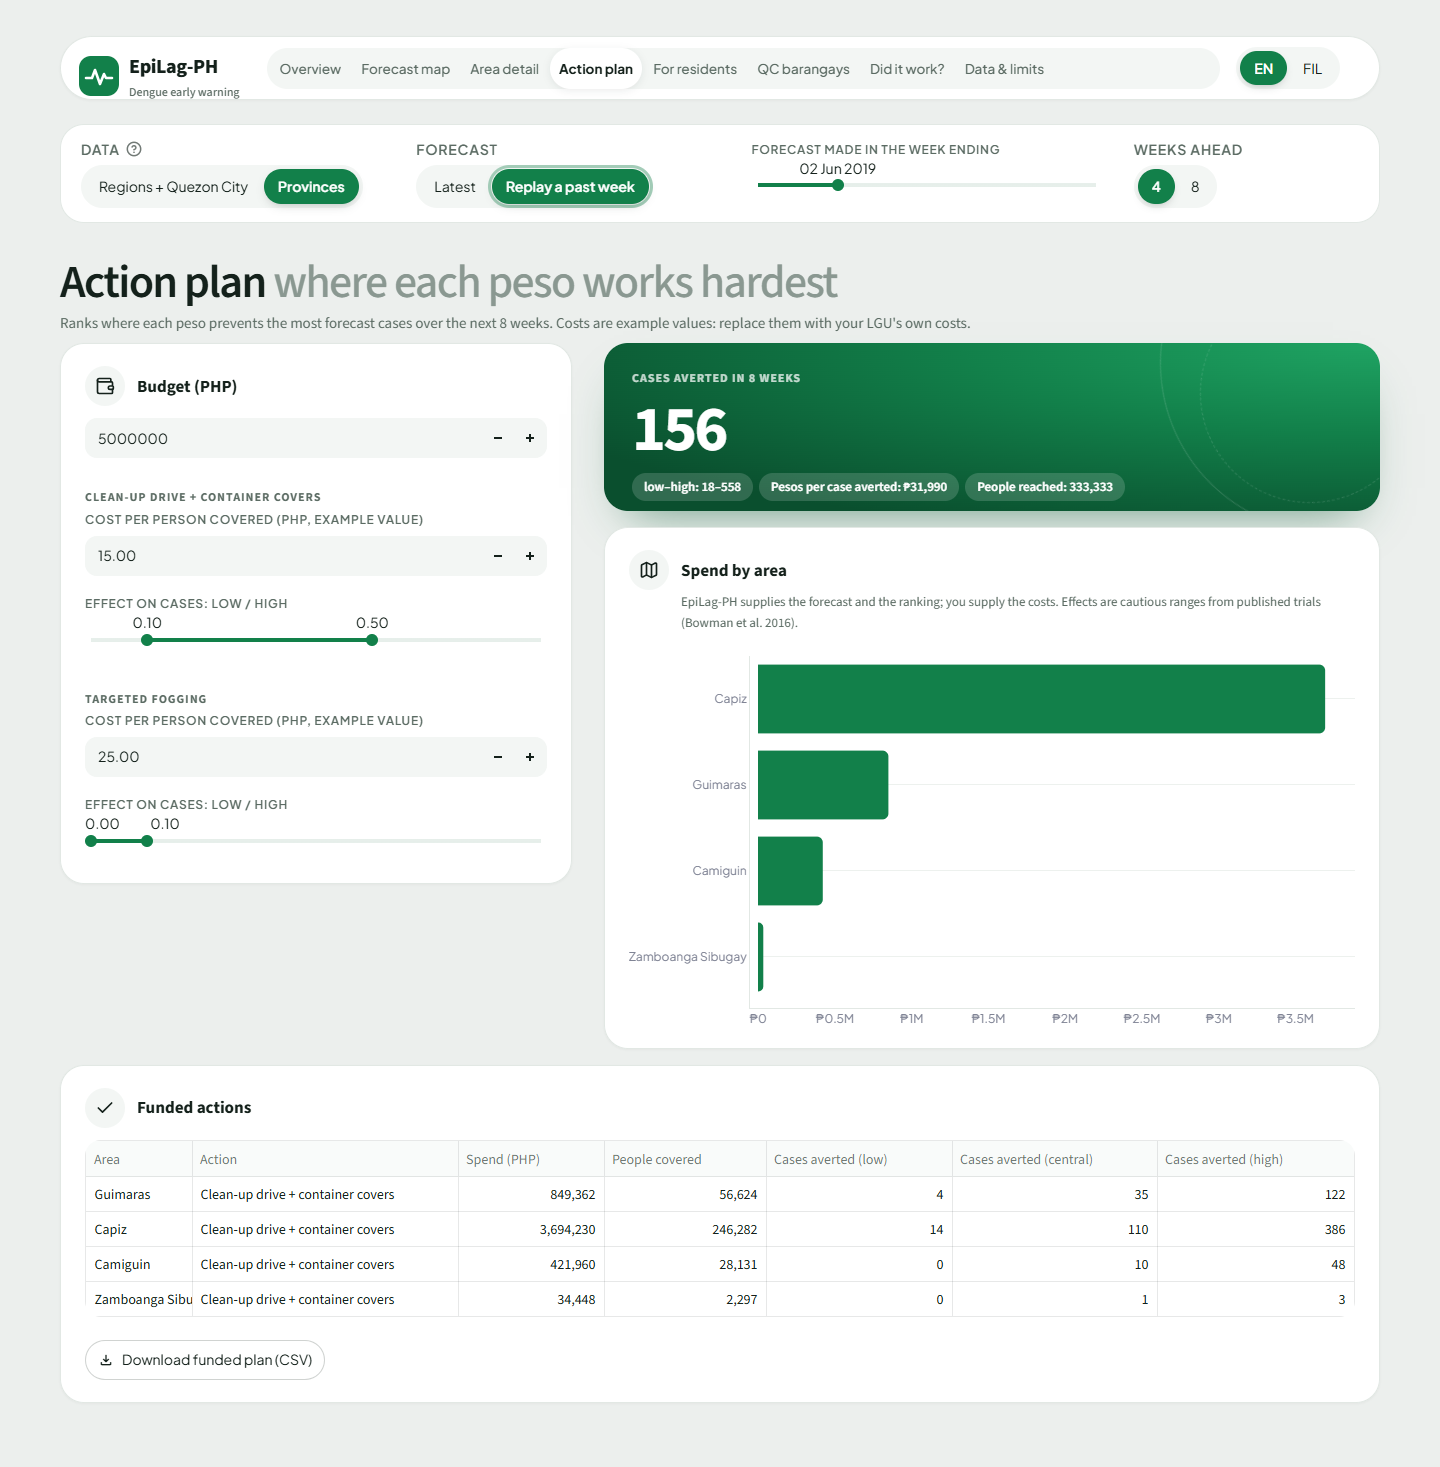
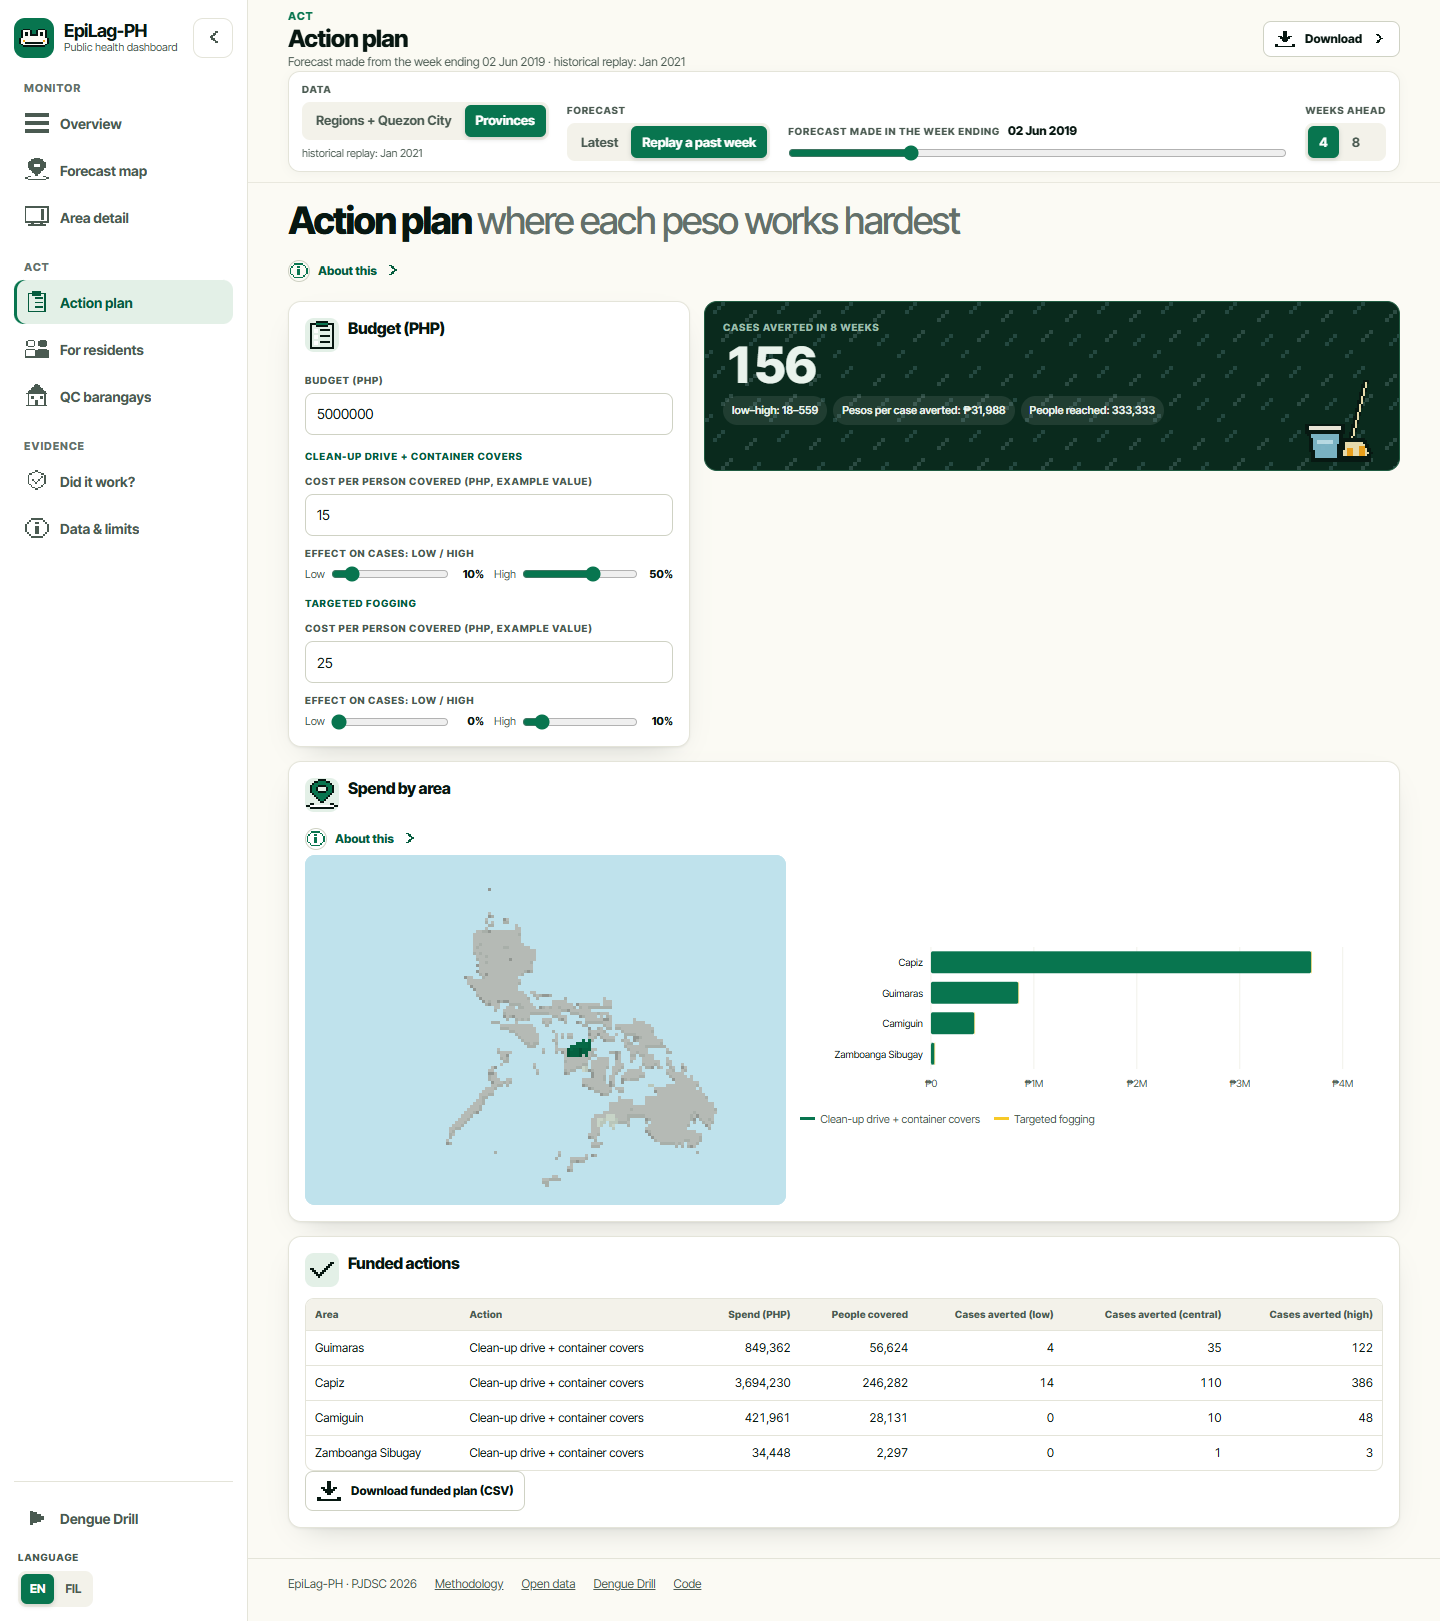
Phase 7: new screenshots from the built site, README for the redesigned site
- scripts/screenshots.py serves docs/ itself and captures the landing page, every dashboard view
  (latest and the 2 June 2019 replay), the methodology page, phone views, and the Dengue Drill
  (title, receipt, round 2 board, report); old file names kept for the film and deck
- README: website link, ~3 s load, the 3D drill and dashboard described, new 'Run it' (Vite first,
  Python data scripts and tests, Streamlit kept for local use), data scripts and repository map

diff --git a/scripts/screenshots.py b/scripts/screenshots.py
@@ -1,46 +1,115 @@
-"""Capture app screenshots for the deck and README. Needs the app running on localhost:8599 and Chrome.
-Usage: python scripts/screenshots.py [name ...]"""
+"""Capture screenshots of the built site for the README, the film and the deck.
+
+Serves docs/ on a local port (as GitHub Pages serves it, under /epilag/) and drives Chrome with Playwright:
+the landing page, every app view (latest forecast and the 2 June 2019 replay), and the Dengue Drill (title,
+briefing, round 2 board, round report), at 1440 px, plus a few phone views at 390 px. App pages are captured at
+their full height with the viewport grown to fit, so the sticky sidebar spans the whole image.
+Build the site first (cd site && npm run build). Usage: python scripts/screenshots.py [name ...]
+"""
 import sys
+import threading
+from functools import partial
+from http.server import SimpleHTTPRequestHandler, ThreadingHTTPServer
 from pathlib import Path
 
 from playwright.sync_api import sync_playwright
 
-OUT = Path(__file__).resolve().parents[1] / "docs" / "screenshots"
-# name, page, replay (2 Jun 2019), provinces, full page
-SHOTS = [("home", "home", False, False, True), ("home_replay_2019", "home", True, True, False),
-         ("map_latest", "map", False, False, False), ("map_replay_2019", "map", True, True, True),
-         ("unit_replay_2019", "unit", True, True, True), ("unit_latest", "unit", False, False, True),
-         ("proof", "proof", False, False, True), ("budget_replay_2019", "budget", True, True, True),
-         ("qc", "qc", False, False, True), ("public", "public", True, True, True)]
+ROOT = Path(__file__).resolve().parents[1]
+DOCS = ROOT / "docs"
+OUT = DOCS / "screenshots"
+REPLAY = "&panel=province&mode=replay&origin=2019-06-02&h=4"
+
+# name, path, width, full height
+SHOTS = [
+    ("landing", "", 1440, False),
+    ("landing_phone", "", 390, False),
+    ("home", "web/?page=home", 1440, True),
+    ("home_replay_2019", f"web/?page=home{REPLAY}", 1440, True),
+    ("map_latest", "web/?page=map", 1440, True),
+    ("map_replay_2019", f"web/?page=map{REPLAY}", 1440, True),
+    ("unit_latest", "web/?page=unit", 1440, True),
+    ("unit_replay_2019", f"web/?page=unit{REPLAY}", 1440, True),
+    ("budget_replay_2019", f"web/?page=budget{REPLAY}", 1440, True),
+    ("public", f"web/?page=public{REPLAY}", 1440, True),
+    ("qc", "web/?page=qc", 1440, True),
+    ("proof", "web/?page=proof", 1440, True),
+    ("about", "web/?page=about", 1440, True),
+    ("app_phone", "web/?page=home", 390, False),
+    ("methodology", "methodology.html", 1440, False),
+]
+DRILL = ["drill_title", "drill_receipt", "drill_round2", "drill_report"]
 
 
-def open_app(page, path, replay, provinces):
-    page.goto(f"http://localhost:8599/?page={path}")
-    page.wait_for_selector(".st-key-topbar", timeout=90000)
+class _Handler(SimpleHTTPRequestHandler):
+    def translate_path(self, path):  # the site is published under /epilag/
+        return super().translate_path(path.removeprefix("/epilag"))
+
+    def log_message(self, *args):
+        pass
+
+
+def shoot(browser, base, name, path, width, full):
+    ctx = browser.new_context(viewport={"width": width, "height": 900 if width > 500 else 844}, device_scale_factor=1,
+                              is_mobile=width < 500, has_touch=width < 500)
+    ctx.add_init_script("try { sessionStorage.setItem('el-intro', '1') } catch (e) {}")  # skip the landing intro
+    page = ctx.new_page()
+    page.goto(base + path, wait_until="networkidle")
     page.wait_for_timeout(2500)
-    if provinces:
-        page.locator(".st-key-panel").get_by_text("Provinces").click()
-        page.wait_for_timeout(2500)
-    if replay:
-        page.locator(".st-key-mode").get_by_text("Replay a past week").click()
-    page.wait_for_timeout(7000)
+    if full:
+        height = page.evaluate("document.documentElement.scrollHeight")
+        page.set_viewport_size({"width": width, "height": min(height, 4200)})
+        page.wait_for_timeout(1500)
+    page.screenshot(path=OUT / f"{name}.png")
+    ctx.close()
+    print("saved", name)
+
+
+def drill(browser, base, only):
+    """Play into the drill: title, the rain receipt, round 2 with a few teams out, and the round report."""
+    page = browser.new_page(viewport={"width": 1440, "height": 900})
+    page.goto(base + "drill/", wait_until="networkidle")
+    page.wait_for_timeout(4000)
+    save = lambda n: (not only or n in only) and (page.screenshot(path=OUT / f"{n}.png"), print("saved", n))
+    save("drill_title")
+    page.click("#start"); page.wait_for_timeout(2800)
+    save("drill_receipt")
+    page.click("#go-r1"); page.wait_for_timeout(2500)
+    for _ in range(8):
+        page.click("#end"); page.wait_for_timeout(1300)
+    page.wait_for_timeout(2500)
+    page.click("#next-r"); page.wait_for_timeout(3000)  # round 2: EpiLag-PH intel
+    for t in range(2):
+        page.click(f".prow[data-k='{t + 1}']"); page.wait_for_timeout(300)
+        page.click("#deploy"); page.wait_for_timeout(500); page.click("#deploy"); page.wait_for_timeout(900)
+        page.click("#end"); page.wait_for_timeout(1600)
+    page.click(".prow[data-k='1']"); page.wait_for_timeout(1500)
+    page.evaluate("scrollTo(0, 0)")
+    save("drill_round2")
+    for _ in range(6):
+        page.click("#end"); page.wait_for_timeout(1300)
+    page.wait_for_timeout(3000)
+    save("drill_report")
+    page.close()
+
+
+def main(only: set) -> None:
+    OUT.mkdir(parents=True, exist_ok=True)
+    server = ThreadingHTTPServer(("127.0.0.1", 0), partial(_Handler, directory=str(DOCS)))
+    threading.Thread(target=server.serve_forever, daemon=True).start()
+    base = f"http://127.0.0.1:{server.server_address[1]}/epilag/"
+    with sync_playwright() as p:
+        try:
+            browser = p.chromium.launch(channel="chrome", args=["--enable-unsafe-swiftshader"])
+        except Exception:  # noqa: BLE001 (no Chrome installed: use Playwright's own Chromium)
+            browser = p.chromium.launch(args=["--enable-unsafe-swiftshader"])
+        for name, path, width, full in SHOTS:
+            if not only or name in only:
+                shoot(browser, base, name, path, width, full)
+        if not only or only & set(DRILL):
+            drill(browser, base, only)
+        browser.close()
+    server.shutdown()
 
 
 if __name__ == "__main__":
-    only = set(sys.argv[1:])
-    OUT.mkdir(parents=True, exist_ok=True)
-    with sync_playwright() as p:
-        browser = p.chromium.launch(channel="chrome")
-        page = browser.new_page(viewport={"width": 1440, "height": 960})
-        for name, path, replay, provinces, full in SHOTS:
-            if only and name not in only:
-                continue
-            open_app(page, path, replay, provinces)
-            if full:  # Streamlit scrolls inside its own container, so grow the viewport to the content height
-                height = page.evaluate("document.querySelector('[data-testid=stMain]').scrollHeight")
-                page.set_viewport_size({"width": 1440, "height": min(height, 4000)})
-                page.wait_for_timeout(2500)
-            page.screenshot(path=OUT / f"{name}.png")
-            page.set_viewport_size({"width": 1440, "height": 960})
-            print("saved", name)
-        browser.close()
+    main(set(sys.argv[1:]))

diff --git a/README.md b/README.md
@@ -7,12 +7,13 @@ health office should do this week, and where a limited budget prevents the most 
 Entry for the Philippine Junior Data Science Challenge (PJDSC) 2026,
 *Trace the Pattern, Target the Cure: Advancing Public Health Through Data Science.*
 
-| [Live app](https://romeo-04.github.io/epilag/web/) | [Dengue Drill](https://romeo-04.github.io/epilag/drill/) | [Film (1:48)](docs/demo.mp4) | [Slides (PDF)](docs/deck/EpiLag-PH_deck.pdf) | [Methodology](https://romeo-04.github.io/epilag/methodology.html) | [Open data](https://romeo-04.github.io/epilag/data/) |
-| --- | --- | --- | --- | --- | --- |
+| [Website](https://romeo-04.github.io/epilag/) | [Live app](https://romeo-04.github.io/epilag/web/) | [Dengue Drill](https://romeo-04.github.io/epilag/drill/) | [Film (1:48)](docs/demo.mp4) | [Slides (PDF)](docs/deck/EpiLag-PH_deck.pdf) | [Methodology](https://romeo-04.github.io/epilag/methodology.html) | [Open data](https://romeo-04.github.io/epilag/data/) |
+| --- | --- | --- | --- | --- | --- | --- |
 
-The live app runs fully in your browser, with no install or account. The first load takes about a minute.
+Everything runs in your browser, with no install or account: the app is ready in about 3 seconds, and the maps and
+the game are drawn as 3D pixel art.
 
-![Replay of the forecast made on 2 June 2019](docs/screenshots/map_replay_2019.png)
+![The EpiLag-PH website](docs/screenshots/landing.png)
 
 ## In one minute
 - **Problem:** dengue response usually starts after hospital admissions are already high. Cases are reported after
@@ -31,9 +32,13 @@ The live app runs fully in your browser, with no install or account. The first l
 Forecasts are easy to ignore until you feel what they are worth. Dengue Drill makes you the health officer for one of 17
 regions during the real 2019 outbreak, the year the Philippines declared a national dengue epidemic.
 
+Your region is a 3D pixel island: each province rises higher and redder as its cases pass its epidemic line, rain falls
+as heavily as it did that week (storms bring lightning), mosquitoes swarm after the rain, and outbreaks glow. Drag to
+turn the island, scroll or pinch to zoom.
+
 | | |
 | --- | --- |
-| ![Dengue Drill title screen: choose one of 17 regions](docs/screenshots/drill_title.png) | ![Round 2: EpiLag-PH forecasts on the map](docs/screenshots/drill_round2.png) |
+| ![Dengue Drill title screen: choose one of 17 regions](docs/screenshots/drill_title.png) | ![Round 2: EpiLag-PH forecasts on the 3D board](docs/screenshots/drill_round2.png) |
 
 1. **Pick a region.** You get ₱5 million in response teams and 8 turns starting in May 2019. Each turn is 2 weeks.
 2. **Read the rain receipt.** Before you start, a receipt lists the season's rain and the cases it brought, province by province.
@@ -75,10 +80,16 @@ flowchart LR
 | **Researchers, newsrooms and other apps** | Every forecast as [CSV and JSON](https://romeo-04.github.io/epilag/data/), with column definitions |
 
 ## What you can do
-**Overview: see this week's priorities.** The app opens on what each tool does, why it matters, and which areas need
-action now.
+**Overview: see this week's priorities.** The app opens on a dashboard: how many areas need action now, a 3D map of
+the forecast, the priority list, and this week's action brief. The sidebar groups the tools into *Monitor*, *Act* and
+*Evidence*; explanations sit behind "About this" buttons, in English and Filipino.
 
-![Overview: what each tool does, and this week's action brief](docs/screenshots/home.png)
+![Overview dashboard](docs/screenshots/home.png)
+
+**Forecast map: where to act first.** Columns rise with the alert level; hover for the numbers, click to open an area.
+In replay mode it shows what happened next.
+
+![Forecast map, replay of 2 June 2019](docs/screenshots/map_replay_2019.png)
 
 **Area page: know what to do and why.** Each area shows its forecast range, alert level, checklist, and the
 factors behind the forecast (recent cases, season, rain, heat, humidity).
@@ -151,21 +162,26 @@ Full write-up: [methodology page](https://romeo-04.github.io/epilag/methodology.
 - EpiLag-PH supports, and does not replace, the judgement of local epidemiologists and DOH surveillance.
 
 ## Run it
-```bash
-python -m venv .venv
-.venv/Scripts/pip install -r requirements.txt      # or .venv/bin/pip on macOS/Linux
-streamlit run app/streamlit_app.py                 # the app runs from committed files in app/data
-python scripts/build_web.py                        # rebuild the in-browser version in docs/web
-pytest tests                                       # 71 tests
-```
-
-The redesigned site (in progress, see [REDESIGN_PLAN.md](REDESIGN_PLAN.md)) is built with Vite from `site/` into `docs/`:
+The website, app and game are built with Vite from `site/` into `docs/` (served by GitHub Pages):
 ```bash
 cd site
 npm ci
 npm run dev        # http://localhost:5173/epilag/
 npm run build      # writes the pages into ../docs
 ```
+
+The Python side makes the data the site reads, and holds the tests:
+```bash
+python -m venv .venv
+.venv/Scripts/pip install -r requirements.txt      # or .venv/bin/pip on macOS/Linux
+python scripts/build_web.py                        # app data (site/public/web/data) and EN/FIL copy
+pytest tests                                       # needs Playwright and a built site for the browser tests
+streamlit run app/streamlit_app.py                 # the original Streamlit app, kept for local use
+```
+
+The tests check that the JavaScript app computes what the Python does (alert levels, thresholds, replays, the
+"30 of 32" claim, budget plans), that the game scores like `scripts/drill_data.py`, and that every page loads without
+errors, fits a phone, works with reduced motion and the keyboard, and passes an accessibility scan.
 
 <details>
 <summary>Rebuild everything from the raw data</summary>
@@ -181,21 +197,27 @@ python src/alerts.py province && python src/alerts.py region_qc
 python src/train_final.py province && python src/train_final.py region_qc
 python src/export_app_data.py
 python scripts/make_figures.py
-python scripts/drill_data.py         # Dengue Drill season data (docs/drill/data.js)
+python scripts/drill_data.py         # Dengue Drill season data (site/public/drill/data.json)
 python scripts/export_open_data.py   # open forecast files (docs/data/)
+python scripts/build_web.py          # app data and EN/FIL copy
+python scripts/voxel_data.py         # 3D map grids (site/public/geo/)
+python scripts/landing_data.py       # the landing page's 2019 replay numbers
+python scripts/og_image.py           # social card (site/public/og.png)
+python scripts/screenshots.py        # docs/screenshots, from the built site
 ```
 </details>
 
 ## Repository
 ```
-app/            Streamlit app and its small data files
+site/           the website, app and game (Vite): pages, src/app (dashboard), src/drill (3D game),
+                src/landing, src/lib (pixel sprites, voxel maps, motion), public/ (data, sprites, grids)
+docs/           the built site for GitHub Pages, plus open data (data/), film (film/, demo.mp4), deck,
+                figures and screenshots
 src/            pipeline: fetch, clean, weather, features, backtest, alerts, train, allocate, export
-tests/          unit tests (allocation) and app smoke tests
+app/            the original Streamlit app and its small data files
+tests/          allocation, JS/Python parity, game rules, site checks (Playwright), Streamlit smoke tests
 reports/        backtest, early-warning, ablation and SHAP results (CSV)
-docs/           landing page, in-browser app (web/), Dengue Drill (drill/), open data (data/), methodology,
-                film (film/, demo.mp4), deck, figures, screenshots
-scripts/        figures, screenshots, film recording (record_film.py), in-browser build
-site/           source of the redesigned site (Vite); `npm run build` writes into docs/
+scripts/        data for the site, sprites, voxel grids, figures, screenshots, social card, film recording
 ```
 
 ## References
